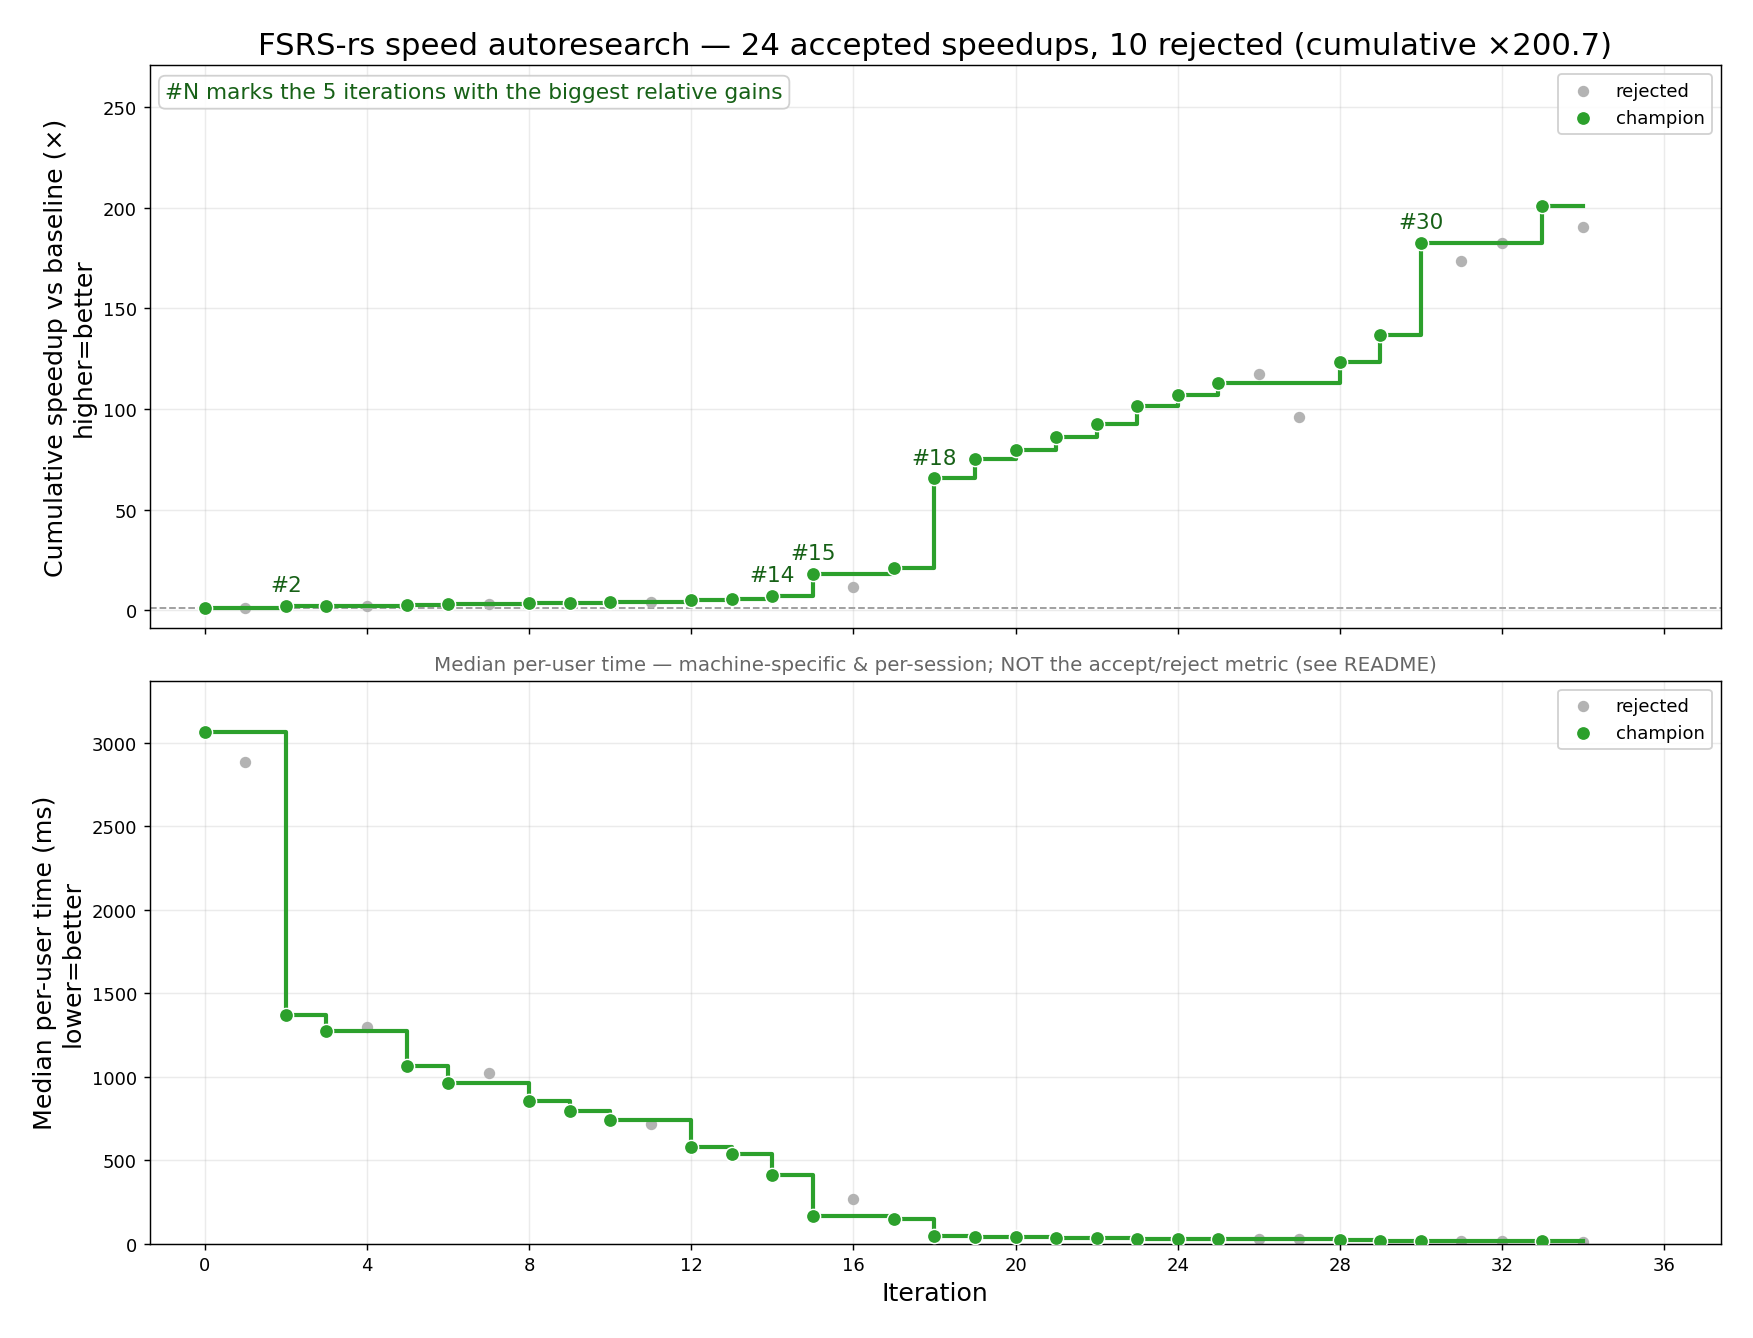
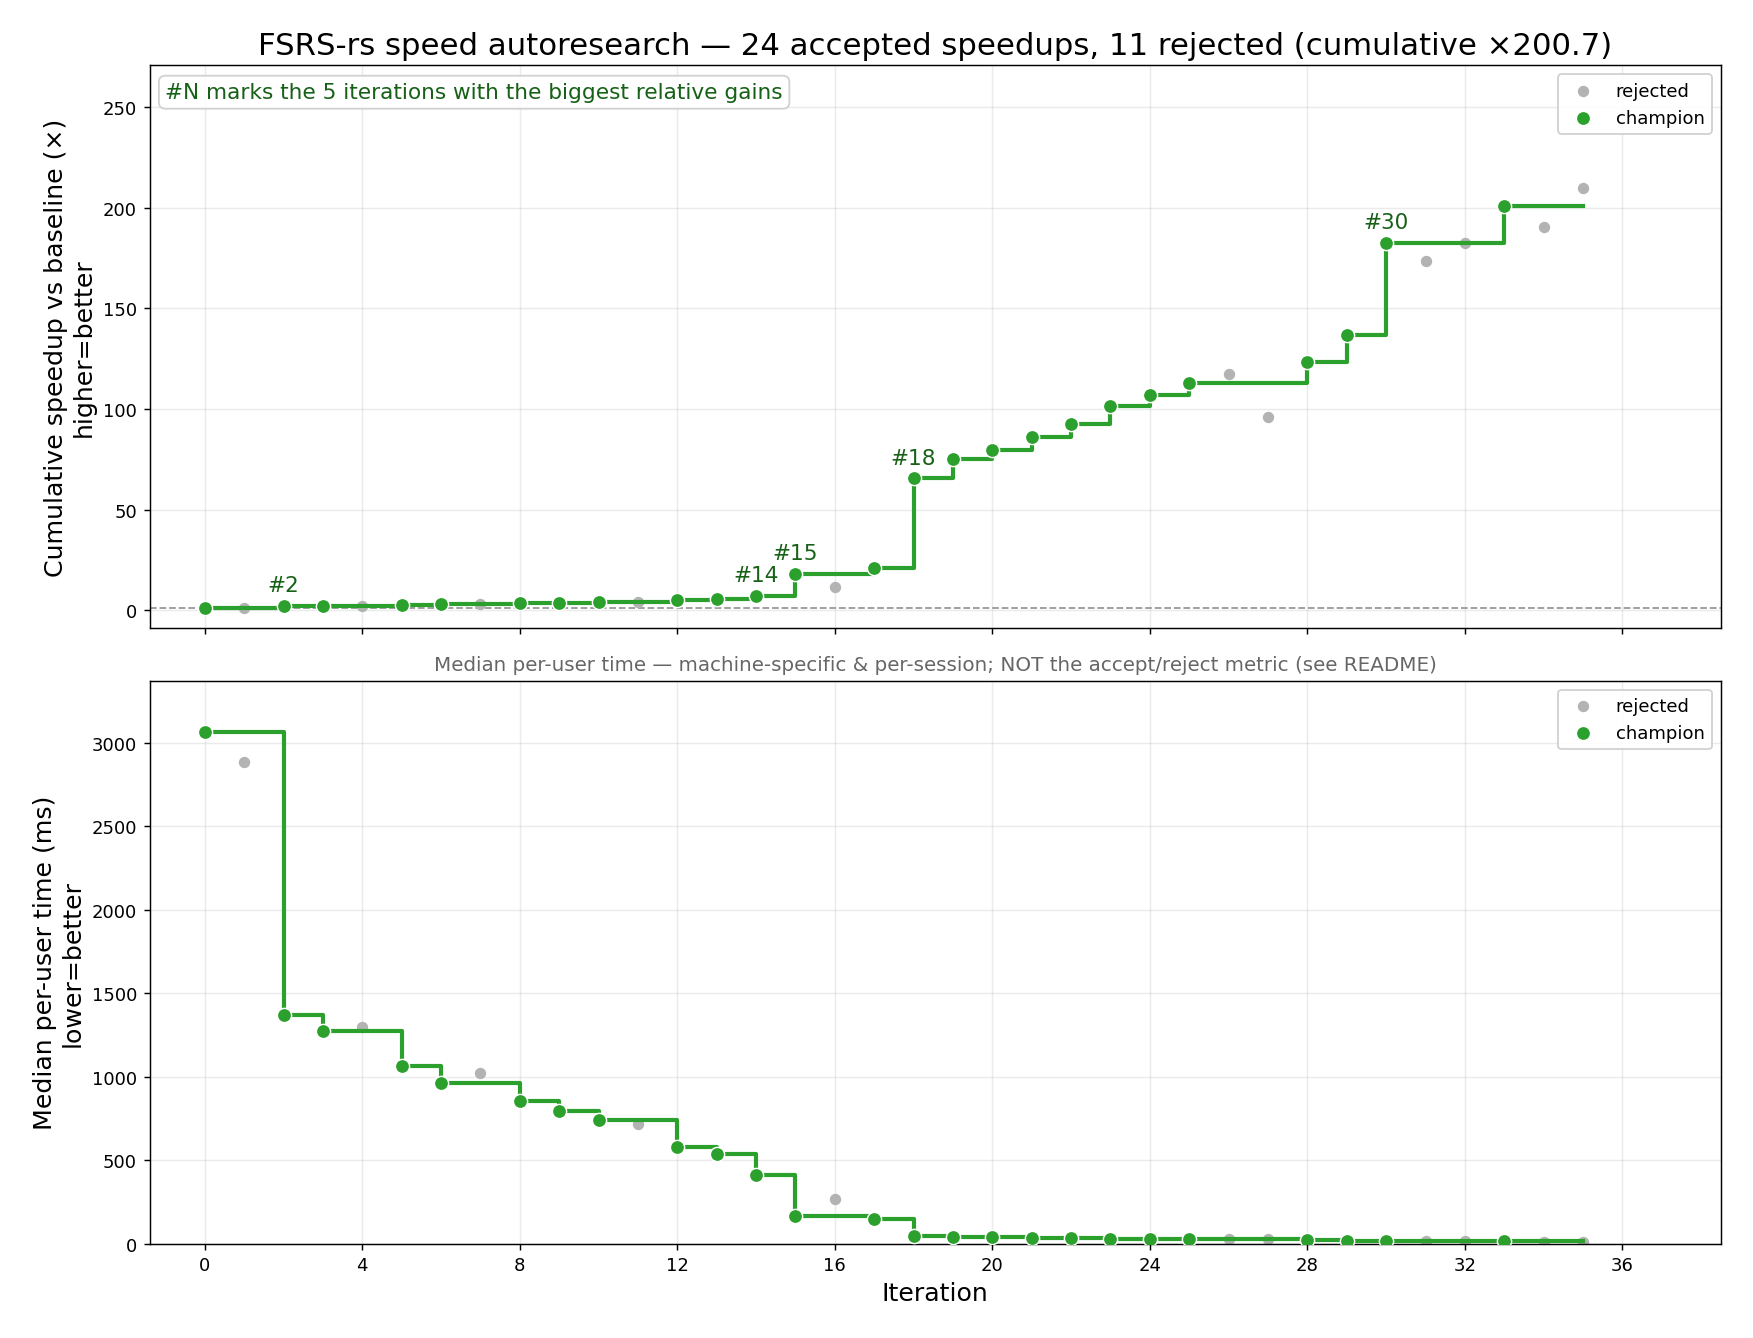
iter35 REJECTED: small bit-for-bit stack at x1.046 (kept in tree for iter36)

diff --git a/result/history.md b/result/history.md
@@ -39,6 +39,7 @@ Accept metric: **median per-user speed_ratio ≥ 1.05** (constraint 12) AND **sp
 | 32 | 14 | 16 | 1.000 | 10602 | 10712 | 1.010 | 1.026 | ✓ | rejected | Run two 8-card groups in lockstep so their recurrences overlap |
 | 33 | 14 | 13 | 1.101 | 10607 | 10603 | 1.000 | 0.999 | ✓ | accepted | Stack: exp8 single-convert rounding, peel first step, drop dead/cheap cache fields |
 | 34 | 12 | 13 | 0.948 | 10603 | 10603 | 1.000 | 1.000 | ✓ | rejected | Run the SIMD kernels 4 cards per lane (f32x4) instead of 8 |
+| 35 | 12 | 12 | 1.046 | 10603 | 10622 | 1.002 | 1.004 | ✓ | rejected | Stack: inline loss-grad helper, one-check load8, cache iterator, drop proven-redundant exp clamps |
 
 **Cumulative speed_ratio (product of accepted): ×200.748** — upward-biased (winner's curse); anchor periodically vs iter-0 baseline.
 
